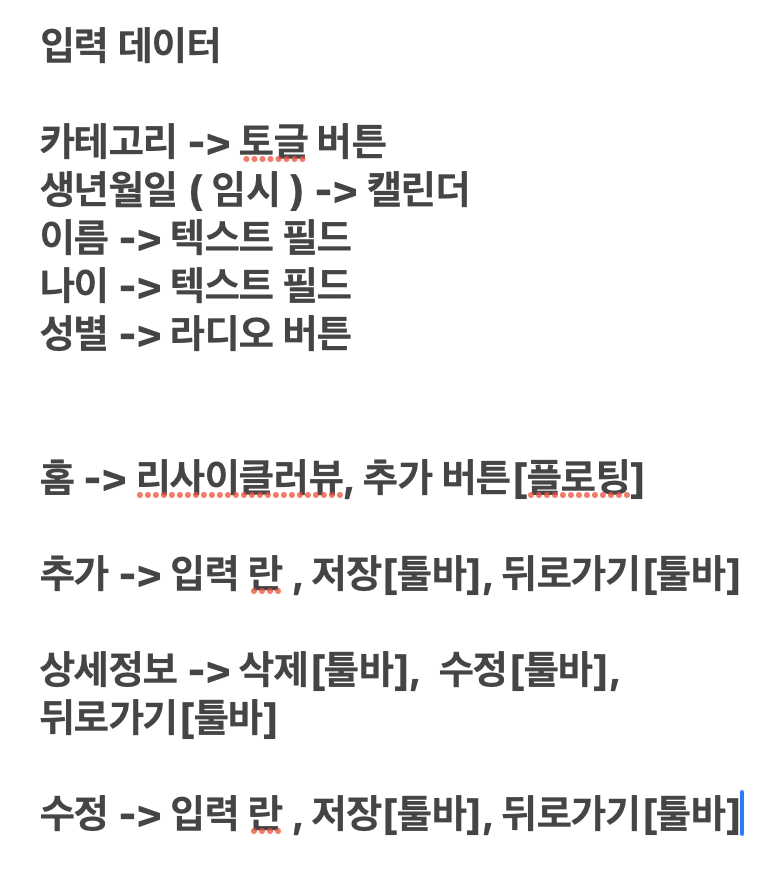
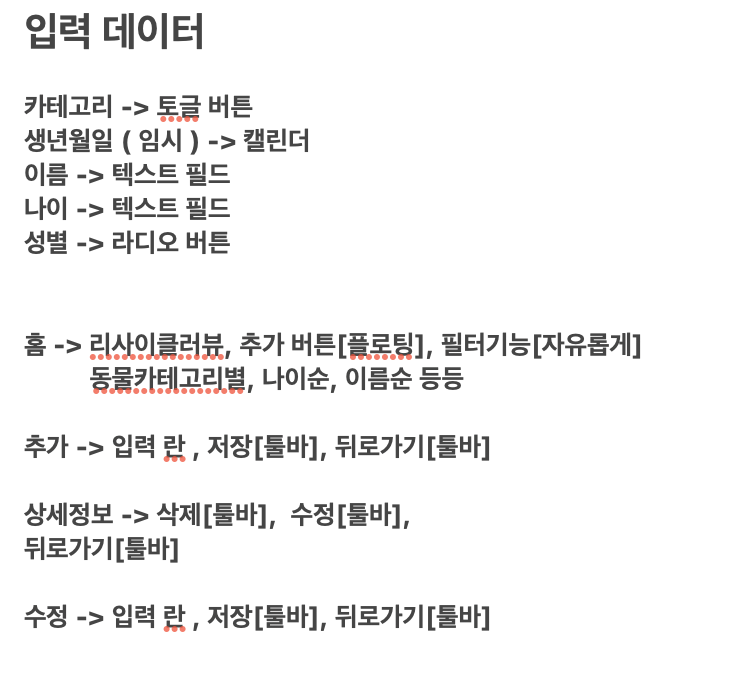
이름  - 오름 차순  - 내림 차순  나이  - 오름 차순  - 내림 차순  종류별  - 강아지  - 고양이  - 앵무새  전체보기  구현

diff --git a/app/src/main/java/com/lion/animalmanager/README.md b/app/src/main/java/com/lion/animalmanager/README.md
@@ -6,11 +6,16 @@
 - 토글 바
 - 리사이클러 뷰
 - FAB 버튼 (동물 추가 화면으로 넘어가기 위한 버튼)
+- 필터링 기능
+    - 이름별 (오름, 내림 차순)
+    - 나이별 (오름, 내림 차순)
+    - 동물별 (강아지, 고양이, 앵무새)
+    - 전체보기 (새로고침)
 
 ## 동물 추가 화면
 - 토급 바 (뒤로 가기, 저장)
 - 강아지|고양이|앵무새 -> 토글 버튼
-- 생년월일 (임시) -> 캘린더
+- 생년월일 -> 캘린더
 - 이름 -> 텍스트 필드
 - 나이 -> 텍스트 필드
 - 성별 -> 라디오 버튼
@@ -19,10 +24,10 @@
 - 토글 바 (뒤로 가기, 수정, 삭제)
 - 입력한 정보
 
-## 동물 정보 수정 화면 (입력해 놓은 정보가 유지되도록 할 수 있을까?)
+## 동물 정보 수정 화면
 - 토글 바(뒤로 가기, 저장)
 - 강아지|고양이|앵무새 -> 토글 버튼
-- 생년월일 (임시) -> 캘린더
+- 생년월일 -> 캘린더
 - 이름 -> 텍스트 필드
 - 나이 -> 텍스트 필드
 - 성별 -> 라디오 버튼
